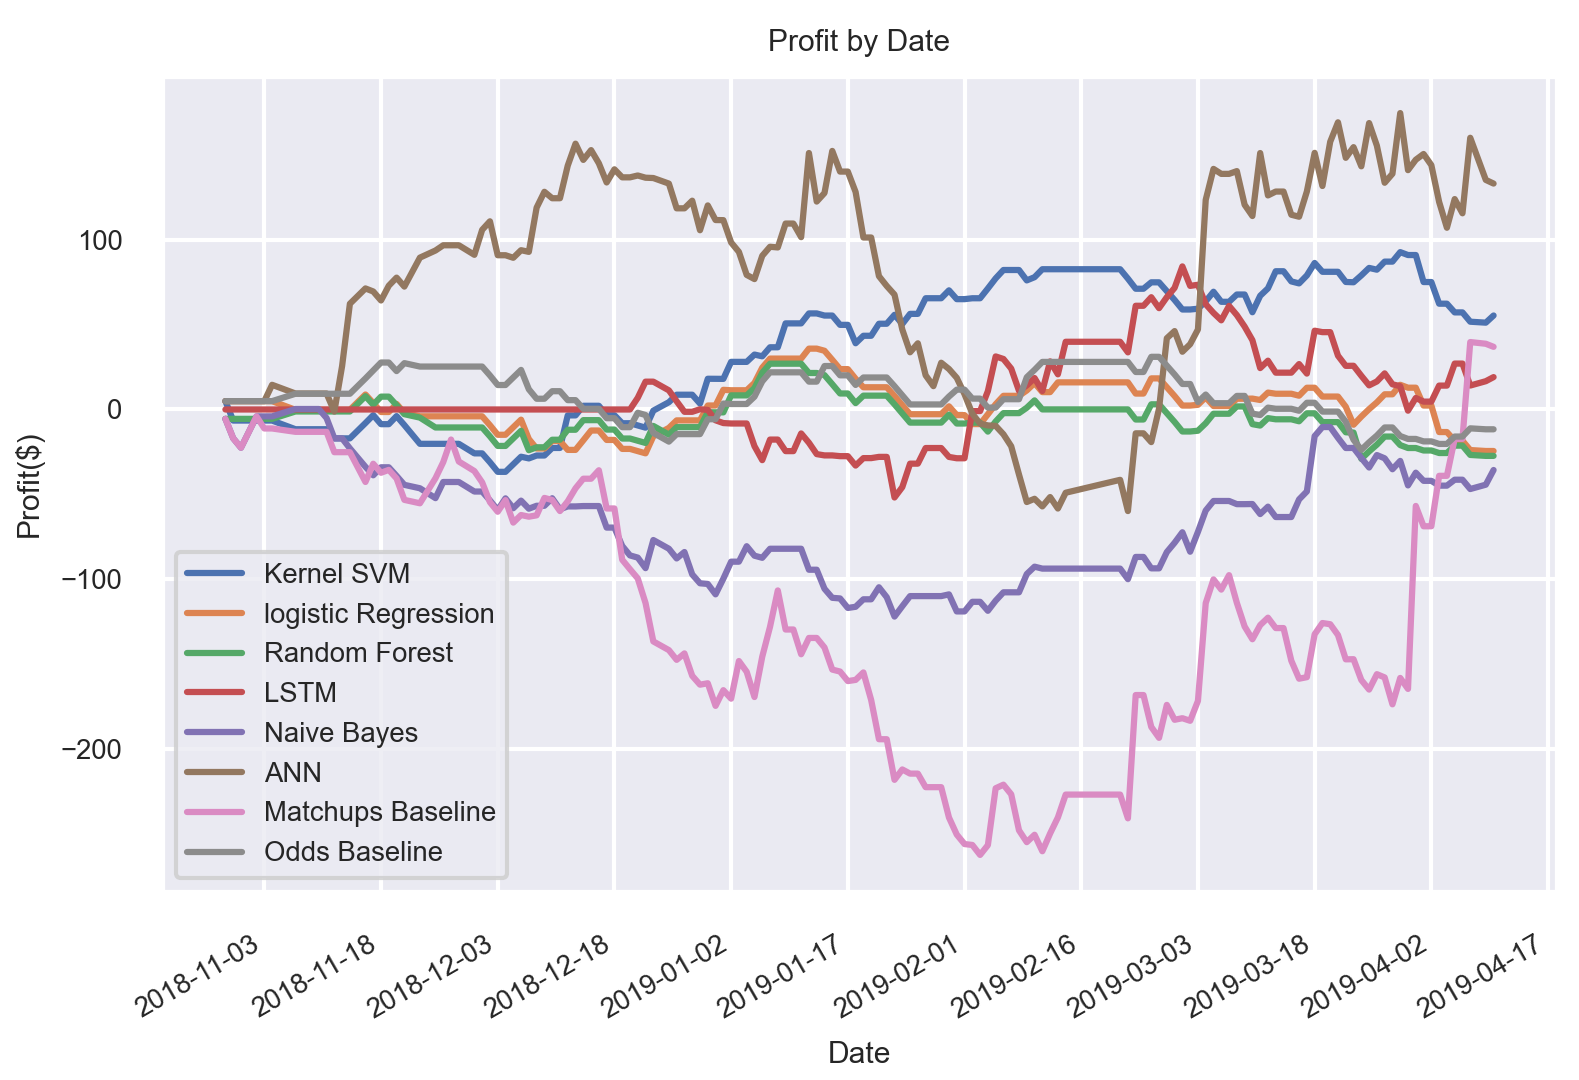
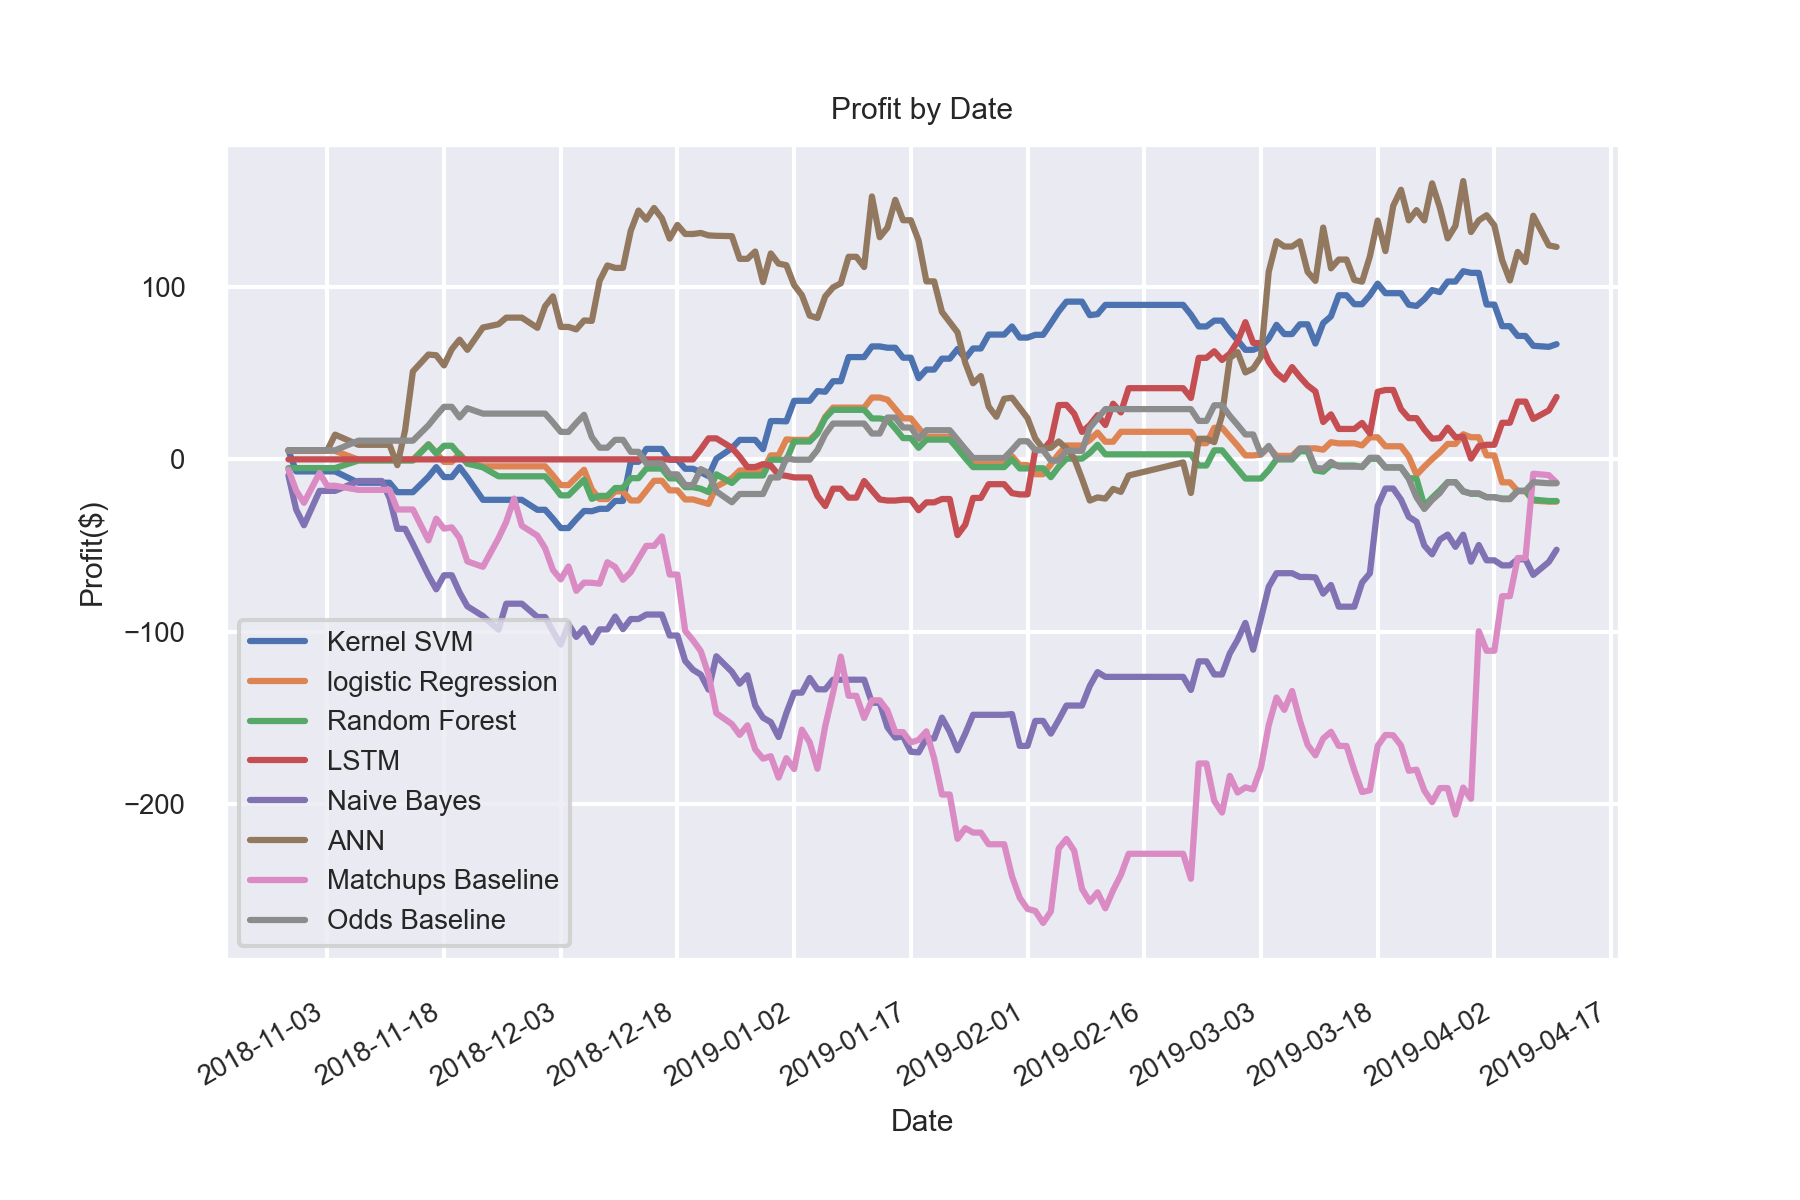
Adjustments so each model uses its own probabilities to determine the bet value

diff --git a/main.py b/main.py
@@ -122,6 +122,14 @@ def load_neural_net(model_name, model):
         # serialize weights to HDF5
         res.save_weights("models/{}.h5".format(model_name))
     return res
+
+def get_bet_value(prob):
+    bet_value = 0 
+    if prob >= 0.5:
+        bet_value = 10*prob
+    else:
+        bet_value = 10*abs(1-prob)
+    return bet_value
     
 
 if __name__ == "__main__":
@@ -302,12 +310,14 @@ if __name__ == "__main__":
     
     modelCont = 0
     highestAcc = 0
+    probs = dict()
     while True:
         try:
             if results[modelCont]['model'] == 'LSTM':
                 features_lstm, labels_lstm, info_lstm = parse_lstm_data(X_lstm, y_lstm)
                 pred = results[modelCont]['classifier'].predict(features_lstm)
                 results[modelCont]['pred'] = pred
+                probs['LSTM'] =  pred
                 pred_winner = (results[modelCont]['pred'] > 0.5)
                 # pred_winner = np.array(pred_winner).astype(np.float32)
                 results[modelCont]['pred_winner'] = pred_winner
@@ -315,7 +325,10 @@ if __name__ == "__main__":
             else:
                 results[modelCont]['pred'] = results[modelCont]['classifier'].predict(X_transformed)
                 if results[modelCont]['model'] == 'ANN':
+                    probs['ANN'] =  results[modelCont]['pred']
                     results[modelCont]['pred'] = (results[modelCont]['pred'] > 0.5)
+                else:
+                    probs[results[modelCont]['model']] =  results[modelCont]['classifier'].predict_proba(X_transformed)
                 results[modelCont]['acc_test'] = accuracy_score(y, results[modelCont]['pred'])
             if results[modelCont]['acc_test'] > highestAcc:
                 y_pred = results[modelCont]['pred']
@@ -371,11 +384,7 @@ if __name__ == "__main__":
             money_by_date.append([game['GAME_DATE'],  dict(zip([x['model'] for x in results], [0 for x in results])), dict(money_by_date[-1][2])])
         
         game_money = 0
-        if y_prob[index,0] >= y_prob[index,1]:
-            bet_value = 10*y_prob[index,0]
-        else:
-            bet_value = 10*y_prob[index,1]
-        # bet_value = 10
+        bet_value = get_bet_value(y_prob[index,0])
         if (y_pred[index] == 1 and game['ODDS_A'] > threshold) or (y_pred[index] == 0 and game['ODDS_B'] > threshold):
             if game['TEAM_A'] not in money_by_team:
                 money_by_team[game['TEAM_A']] = 0
@@ -404,12 +413,14 @@ if __name__ == "__main__":
         for model in money_by_date[-1][1]:
             if model == 'LSTM':
                 if index_lstm < len(info_lstm) and info_lstm[index_lstm][0] == money_by_date[-1][0]:
+                    bet_value = get_bet_value(probs[model][index_lstm,0])
                     prediction = pred_winner_lstm[index_lstm]
                     game_money_model = check_model_performance_on_game_lstm(info_lstm[index_lstm], prediction, bet_value)
                     index_lstm += 1
                 else:
                     game_money_model = 0
             else:
+                bet_value = get_bet_value(probs[model][index,0])
                 prediction = next(x['pred'][index] for x in results if x['model'] == model)
                 game_money_model = check_model_performance_on_game(game, prediction, bet_value)
             money_by_date[-1][1][model] += game_money_model

diff --git a/machine_learning_models/classification/kernel_svm.py b/machine_learning_models/classification/kernel_svm.py
@@ -11,6 +11,7 @@ import numpy as np
 import matplotlib.pyplot as plt
 import pandas as pd
 from statistics import mean
+from sklearn.calibration import CalibratedClassifierCV
 import import_data_helper as idh
 
 def kernel_svm(season = '2018-2018', no_test = False):
@@ -22,7 +23,7 @@ def kernel_svm(season = '2018-2018', no_test = False):
     " Training the model on the Training set "
     
     from sklearn.svm import SVC
-    classifier = SVC(kernel = 'rbf', random_state = 0)
+    classifier = SVC(kernel = 'rbf', random_state = 0, probability = True)
     classifier.fit(X_train, y_train.ravel())
     
     " Predicting a new result "
